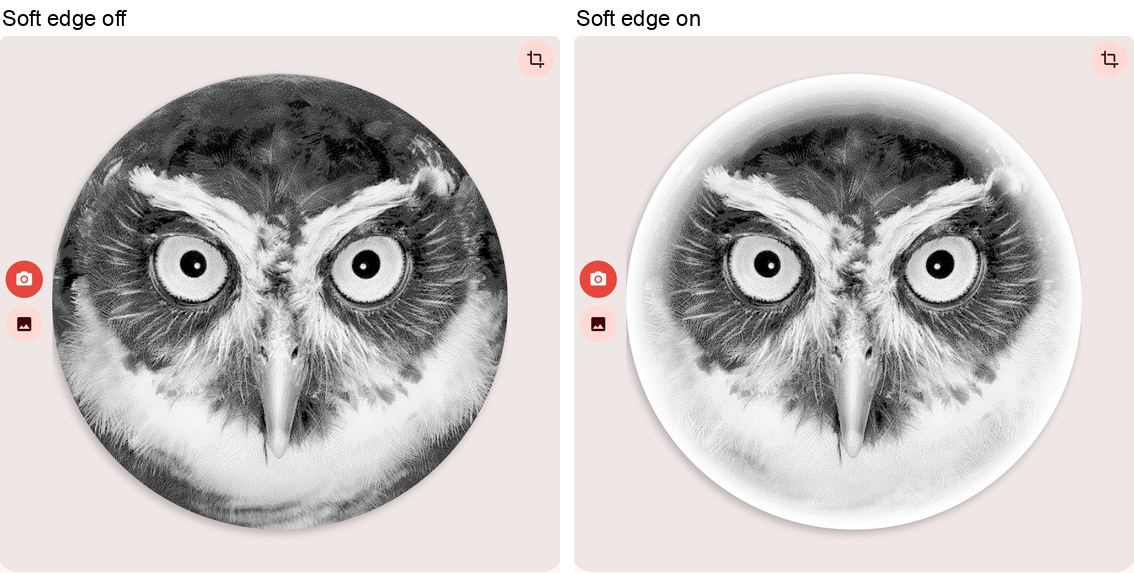
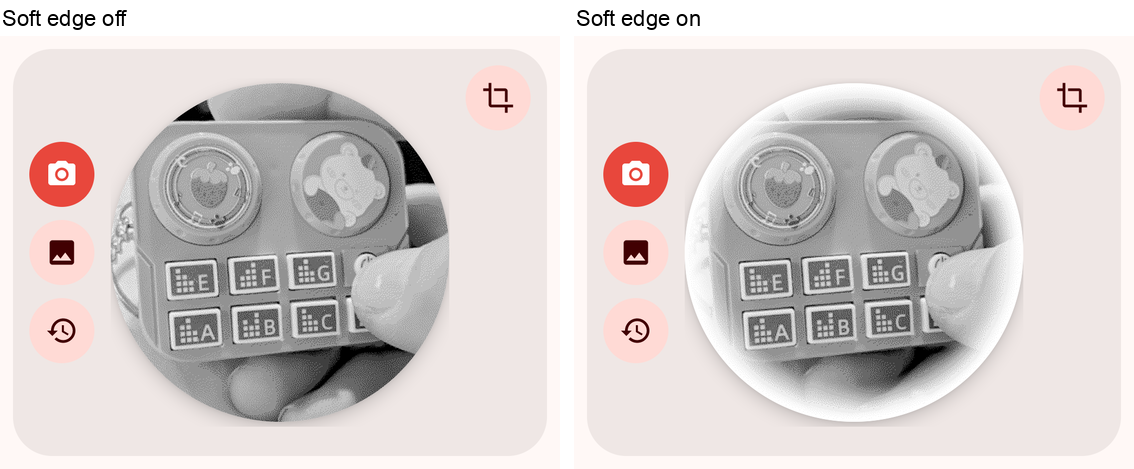
Replace third-party photos in README and docs with own photos
- Raster looks, close-up, soft edge and Memory Film images now use our own
  photo (tools/screenshots/photos/subject.jpg); new scenes rasters, softedge
  and film in shots.py make them.
- The two photos at the top of the README show real red/black prints on a
  two-colour roll instead of the old gray prints.
- Warning box under the README title.

diff --git a/tools/screenshots/shots.py b/tools/screenshots/shots.py
@@ -13,9 +13,11 @@ crop with it. A new feature is a new scene function (see SCENES below) and, if i
 layout has no id for, an `android:id` in the layout.
 
 Needs: adb, ffmpeg, a running emulator (any API 30+ image) and the debug APK (run-as writes the
-preferences). Photos come from the emulator's camera through the photo booth, so no picture is
-stored in the repository. No printer is needed; what only a printer can show (battery, prints) is
-left out or faked with files in the app's storage.
+preferences); the scenes rasters, softedge and film also need Pillow for the montages. Most photos
+come from the emulator's camera through the photo booth; tools/screenshots/photos/ holds our own
+photos used as subjects (subject.jpg goes into the emulator's gallery and is picked from there). No
+printer is needed; what only a printer can show (battery, prints) is left out or faked with files in
+the app's storage.
 """
 import argparse
 import os
@@ -34,6 +36,7 @@ ROOT = Path(__file__).resolve().parents[2]
 PKG = "de.b21print"
 APK = ROOT / "app/build/outputs/apk/debug/app-debug.apk"
 OUT = ROOT / "docs"
+SUBJECT = Path(__file__).resolve().parent / "photos/subject.jpg"
 SIZE, DENSITY = "1080x2340", "480"   # Galaxy S25
 CUR = {"size": SIZE}
 
@@ -255,6 +258,68 @@ def photo_from_booth():
     time.sleep(2.5)
 
 
+def push_subject():
+    """subject.jpg into the gallery, touched so it is the newest picture and the picker shows it first."""
+    dest = "/sdcard/Pictures/b21-subject.jpg"
+    adb("push", str(SUBJECT), dest)
+    sh(f"touch {dest}")
+    sh(f"am broadcast -a android.intent.action.MEDIA_SCANNER_SCAN_FILE -d file://{dest}")
+    time.sleep(2)
+
+
+def photo_from_gallery():
+    """The subject photo through the gallery button, cropped to the label format."""
+    tap("btnGallery")
+    end = time.time() + 30
+    while time.time() < end:
+        pics = [n for n in dump() if n.desc.startswith("Photo taken on")]
+        if pics:
+            break
+        time.sleep(1)
+    else:
+        raise RuntimeError("no photo in the picker")
+    sh(f"input tap {pics[0].center[0]} {pics[0].center[1]}")
+    tap("btnCropDone", 30)
+    wait_for("stage", 20)
+    time.sleep(3)
+
+
+def loupe():
+    """The print as the loupe shows it (tap on the preview), cut to the picture: about 2 x print size."""
+    from PIL import Image
+    tap("preview")
+    time.sleep(1.5)
+    n = wait_for("custom")
+    capture(TMP / "raw.png")
+    tap("button1")
+    x0, y0, x1, y1 = n.b
+    img = Image.open(TMP / "raw.png").convert("RGB").crop((x0 + 8, y0 + 8, x1 - 8, y1 - 8))  # not the round corners
+    bg = Image.new("RGB", img.size, (0x20, 0x20, 0x20))
+    from PIL import ImageChops
+    # the loupe's dark background is not exactly #202020 after the screenshot: a small tolerance
+    mask = ImageChops.difference(img, bg).convert("L").point(lambda v: 255 if v > 16 else 0)
+    return img.crop(mask.getbbox())
+
+
+def montage(name, tiles, cols, gap=14, cap=36):
+    """Tiles (caption, image) in a grid, each under its caption, on white."""
+    from PIL import Image, ImageDraw, ImageFont
+    try:
+        font = ImageFont.truetype("/System/Library/Fonts/Supplemental/Arial.ttf", 22)
+    except OSError:
+        font = ImageFont.load_default(22)
+    tw, th = max(t.width for _, t in tiles), max(t.height for _, t in tiles)
+    rows = (len(tiles) + cols - 1) // cols
+    out = Image.new("RGB", (cols * tw + (cols - 1) * gap, rows * (th + cap) + (rows - 1) * gap // 2), "white")
+    d = ImageDraw.Draw(out)
+    for i, (text, t) in enumerate(tiles):
+        x, y = (i % cols) * (tw + gap), (i // cols) * (th + cap + gap // 2)
+        d.text((x + 2, y + 6), text, fill="black", font=font)
+        out.paste(t, (x, y + cap))
+    out.save(OUT / name)
+    print(f"  {name}")
+
+
 OLD_FONT = "1.0"
 
 
@@ -438,6 +503,53 @@ def console():
     shot("debug-console.png", ["parentPanel"], pad=8)
 
 
+RASTERS = [("PHOTO", "Photo"), ("DOTS", "Halftone dots"), ("LINES", "Line screen"),
+           ("SCANLINES", "TV scanlines"), ("SCANLINES_WIDE", "TV scanlines, wide"), ("MAC", "Macintosh"),
+           ("AMIGA", "Amiga"), ("BAYER", "Amiga fine"), ("BLUE", "Blue noise"), ("RIEMERSMA", "Riemersma"),
+           ("FAX", "Fax"), ("TEXT", "Text/logo")]
+
+
+@scene
+def rasters():
+    """All raster looks on the subject photo, whole label and a close-up (from the loupe)."""
+    from PIL import Image
+    push_subject()
+    looks, detail = [], []
+    for key, title in RASTERS:
+        start({"label": "Square M", "raster": key})
+        photo_from_gallery()
+        img = loupe()
+        looks.append((title, img.resize((420, round(420 * img.height / img.width)), Image.LANCZOS)))
+        # close-up of the bear on the right button, at the loupe's scale (about twice the print)
+        cx, cy = int(img.width * 0.69), int(img.height * 0.28)
+        detail.append((title, img.crop((cx - 130, cy - 130, cx + 130, cy + 130))))
+    montage("raster-looks.png", looks, 4)
+    montage("raster-detail.png", detail, 4)
+
+
+@scene
+def softedge():
+    """Soft edge off and on, on a round label."""
+    from PIL import Image
+    push_subject()
+    tiles = []
+    for on in (False, True):
+        start({"label": "Circle 40", "softEdge": on})
+        photo_from_gallery()
+        p = shot(f"soft-{on}.png", ["stage"], width=560, out_dir=TMP)
+        tiles.append((f"Soft edge {'on' if on else 'off'}", Image.open(p).convert("RGB")))
+    montage("soft-edge.png", tiles, 2)
+
+
+@scene
+def film():
+    """The subject on a Memory Film label."""
+    push_subject()
+    start({"label": "Memory Film"})
+    photo_from_gallery()
+    shot("test-chart.png", ["stage"], width=560)
+
+
 @scene
 def overview():
     """The hero image: photo, red sign, booth review side by side (needs those scenes to have run)."""
@@ -456,7 +568,7 @@ def overview():
     print(f"  {dest.name}")
 
 
-ORDER = ["photo", "instant", "sign", "booth", "recent", "calibration", "console", "overview"]
+ORDER = ["photo", "instant", "sign", "booth", "recent", "calibration", "console", "overview", "rasters", "softedge", "film"]
 
 
 def main():

diff --git a/README.md b/README.md
@@ -1,5 +1,10 @@
 # B21 Print
 
+> [!WARNING]
+> This project is intended for informational and educational purposes only. It is not affiliated
+> with or endorsed by NIIMBOT. Flashing modified printer firmware voids the warranty and can damage
+> your printer; use it only on printers you own and at your own risk.
+
 An Android app for the NIIMBOT B21 Pro label printer. It prints photos and text signs over
 Bluetooth, with no account, no cloud catalog and no RFID roll check, and it has a photo booth mode.
 It is made for tablets and phones alike: the booth is a good fit for a tablet on a stand, but it
@@ -9,13 +14,12 @@ tablet). The screenshots in this README are from a phone-sized screen, 1080 × 2
 ![A photo, a red sign and the photo booth review](docs/overview.png)
 
 <p>
-  <img src="docs/print-gray-amiga.jpg" width="58%" alt="Gray and Amiga fine prints on 40 × 40 mm labels">
-  <img src="docs/printer-gray.jpg" width="40%" alt="Gray print coming out of the B21 Pro">
+  <img src="docs/print-red-black.jpg" width="56%" alt="Jam jar label printed in red and black">
+  <img src="docs/print-red-black-roll.jpg" width="42%" alt="Red and black label still on the two-colour roll">
 </p>
 
-Real prints on third-party 40 × 40 mm labels. First photo: the 16-level gray mode (left) and
-*Amiga fine*, 1-bit (right), each under its calibration chart. Second photo: a gray print straight
-out of the printer. The gray prints were made with a patched printer firmware (see *Gray mode*).
+Real prints in red and black on a two-colour roll: jam jar labels, one taken off the roll (left) and
+one still on it (right).
 
 ## Features
 
@@ -510,7 +514,7 @@ the BLE characteristic and shows every reply. It also offers:
 - **Log** with copy and clear buttons; it also shows the app's own log lines while open. The same
   lines go to Android's log under the tag `B21`, so `adb logcat -s B21` shows them live.
 
-<img src="docs/test-chart.png" width="45%" alt="Test chart on a Memory Film label">
+<img src="docs/test-chart.png" width="45%" alt="A photo on a Memory Film label">
 
 `tools/mkchart.py` generates the same chart as a PNG for any label size.
 
